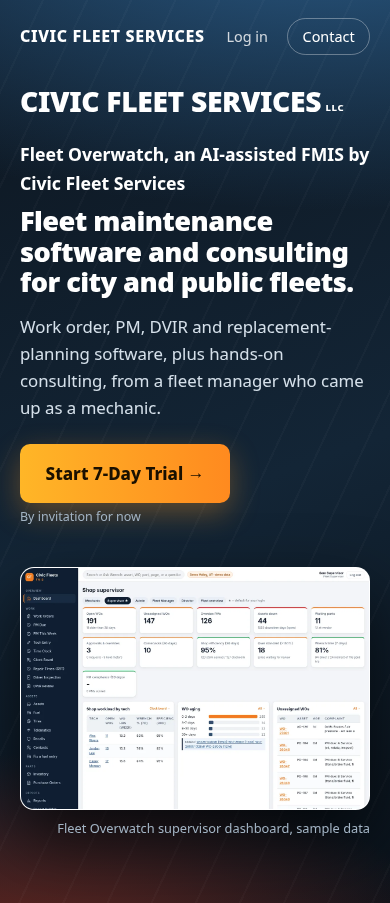
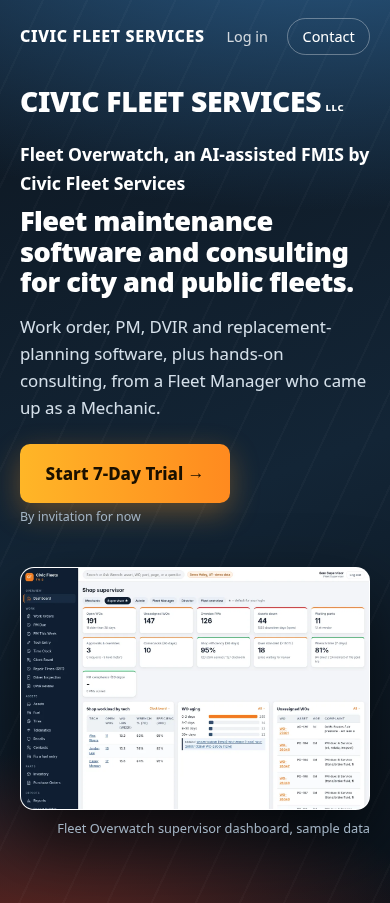
Hero: capitalize Dan's titles (Fleet Manager, Mechanic)

Changed region(s): [[0.4308, 0.4031, 0.9231, 0.4341], [0.2154, 0.4341, 0.4, 0.4651]]

diff --git a/index.html b/index.html
@@ -164,7 +164,7 @@ h1.tag{font-size:clamp(1.7rem,3.4vw,2.7rem);line-height:1.12;margin:.6rem 0 1rem
 <div class="hgrid"><div>
 <p class="subline">Fleet Overwatch, an AI-assisted FMIS by Civic Fleet Services</p>
 <h1 class="tag">Fleet maintenance software and consulting for city and public fleets.</h1>
-<p class="lead">Work order, PM, DVIR and replacement-planning software, plus hands-on consulting, from a fleet manager who came up as a mechanic.</p>
+<p class="lead">Work order, PM, DVIR and replacement-planning software, plus hands-on consulting, from a Fleet Manager who came up as a Mechanic.</p>
 <div class="ctas"><span class="start"><a class="cta" href="https://app.civicfleets.com/signup">Start 7-Day Trial &rarr;</a><small>By invitation for now</small></span></div>
 </div>
 <figure class="hshot"><img src="img/supervisor-dashboard.webp" width="1200" height="833" alt="Fleet Overwatch supervisor dashboard showing open work orders, overdue PMs and assets down (sample Demo Valley data)" fetchpriority="high"><figcaption>Fleet Overwatch supervisor dashboard, sample data</figcaption></figure>
